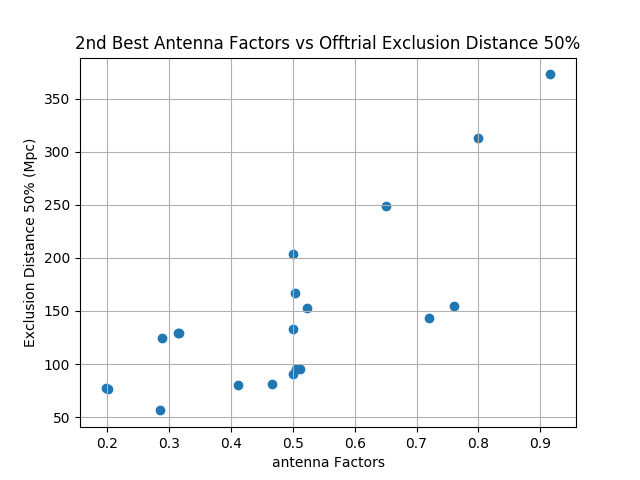
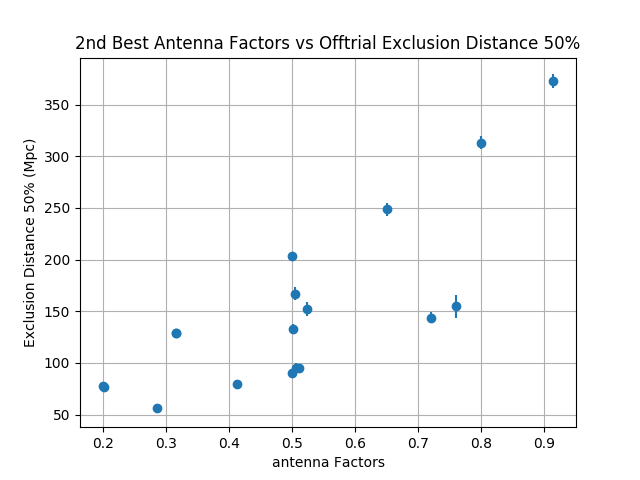
added error bars to antenna plot

diff --git a/injectionPlot.py b/injectionPlot.py
@@ -95,22 +95,22 @@ nsbhPrecessInj = 12500
 
 ################ Plotting #################
 nsns_90_mean = [np.mean(inj100NSNS_90), np.mean(inj90NSNS_90), np.mean(inj80NSNS_90), np.mean(inj70NSNS_90), np.mean(inj60NSNS_90), np.mean(inj50NSNS_90), np.mean(inj40NSNS_90), np.mean(inj30NSNS_90), np.mean(inj20NSNS_90)]
-nsns_90_std = [11.063479404361873, 3.700565758284695, 3.6692927735743956, 13.8125677717, 188.954886992, 51.8242101276, 6.34528534050268, 5.865938840354687, 10.64974986085202]
+nsns_90_std = [11.063479404361873, 3.700565758284695, 3.6692927735743956, 6.65511020741, 10.6678190601, 9.72355054478, 6.34528534050268, 5.865938840354687, 10.64974986085202]
 nsnsNumInj_90 = [1*nsnsInj, 0.9*nsnsInj, 0.8*nsnsInj, 0.7*nsnsInj, 0.6*nsnsInj, 0.5*nsnsInj, 0.4*nsnsInj, 0.3*nsnsInj, 0.2*nsnsInj]
 nsns_50_mean = [np.mean(inj100NSNS_50), np.mean(inj90NSNS_50), np.mean(inj80NSNS_50), np.mean(inj70NSNS_50), np.mean(inj60NSNS_50), np.mean(inj50NSNS_50), np.mean(inj40NSNS_50), np.mean(inj30NSNS_50), np.mean(inj20NSNS_50), np.mean(inj10NSNS_50)]
-nsns_50_std = [6.738043973967401, 4.711676157772397, 5.301722593946216, 54.085612975, 16.0578825548, 700.81749628, 4.829679075135576, 4.176415388028511, 5.89478930396605, 3.341110625402934]
+nsns_50_std = [6.738043973967401, 4.711676157772397, 5.301722593946216, 10.7553460849, 4.97605303394, 33.5169350083, 4.829679075135576, 4.176415388028511, 5.89478930396605, 3.341110625402934]
 nsnsNumInj_50 = [1*nsnsInj, 0.9*nsnsInj, 0.8*nsnsInj, 0.7*nsnsInj, 0.6*nsnsInj, 0.5*nsnsInj, 0.4*nsnsInj, 0.3*nsnsInj, 0.2*nsnsInj, 0.1*nsnsInj]
 
 nsbhAlign_90_mean = [np.mean(inj100NSBHAlign_90), np.mean(inj95NSBHAlign_90), np.mean(inj90NSBHAlign_90), np.mean(inj85NSBHAlign_90), np.mean(inj80NSBHAlign_90), np.mean(inj75NSBHAlign_90), np.mean(inj70NSBHAlign_90), np.mean(inj65NSBHAlign_90), np.mean(inj60NSBHAlign_90), np.mean(inj50NSBHAlign_90)]
-nsbhAlign_90_std = [13.3514417736463, 6.763015800603423, 10.816517042851002, 11.343711654851754, 86.2821624168, 673.533580308, 9.75870059841632, 14.110640287440887, 7.52688093747872, 24.8371996108]
+nsbhAlign_90_std = [13.3514417736463, 6.763015800603423, 10.816517042851002, 11.343711654851754, 10.276219128, 31.0497580382, 9.75870059841632, 14.110640287440887, 7.52688093747872, 9.27830349471]
 nsbhAlign_50_mean = [np.mean(inj100NSBHAlign_50), np.mean(inj95NSBHAlign_50), np.mean(inj90NSBHAlign_50), np.mean(inj85NSBHAlign_50), np.mean(inj80NSBHAlign_50), np.mean(inj75NSBHAlign_50), np.mean(inj70NSBHAlign_50), np.mean(inj65NSBHAlign_50), np.mean(inj60NSBHAlign_50), np.mean(inj50NSBHAlign_50)]
-nsbhAlign_50_std = [7.761793772040417, 12.684935353607644, 9.207894303406931, 10.026442593547355, 22.9786084342, 27.0214930127, 6.56585706910925, 17.679110365465252, 41.704807443853305, 2988.80271884]
+nsbhAlign_50_std = [7.761793772040417, 12.684935353607644, 9.207894303406931, 10.026442593547355, 9.53740464565, 11.5537125999, 6.56585706910925, 17.679110365465252, 41.704807443853305, 99.1745945704]
 nsbhAlignNumInj = [1*nsbhAlignInj, 0.95*nsbhAlignInj, 0.9*nsbhAlignInj, 0.85*nsbhAlignInj, 0.8*nsbhAlignInj, 0.75*nsbhAlignInj, 0.7*nsbhAlignInj, 0.65*nsbhAlignInj, 0.6*nsbhAlignInj, 0.5*nsbhAlignInj]
 
 nsbhPrecess_90_mean = [np.mean(inj100NSBHPrecess_90), np.mean(inj95NSBHPrecess_90), np.mean(inj90NSBHPrecess_90), np.mean(inj85NSBHPrecess_90), np.mean(inj80NSBHPrecess_90), np.mean(inj75NSBHPrecess_90), np.mean(inj70NSBHPrecess_90), np.mean(inj65NSBHPrecess_90), np.mean(inj60NSBHPrecess_90), np.mean(inj50NSBHPrecess_90)]
-nsbhPrecess_90_std = [11.380450987844023, 9.288725373870486, 3.9526855403372867, 6.5316522005021405, 272.395972101, 109.792150649, 6.8773294132981055, 10.118444773002604, 19.30353658535733, 51.5042915048]
+nsbhPrecess_90_std = [11.380450987844023, 9.288725373870486, 3.9526855403372867, 6.5316522005021405, 21.5440835645, 12.0579867157, 6.8773294132981055, 10.118444773002604, 19.30353658535733, 10.8410448196]
 nsbhPrecess_50_mean = [np.mean(inj100NSBHPrecess_50), np.mean(inj95NSBHPrecess_50), np.mean(inj90NSBHPrecess_50), np.mean(inj85NSBHPrecess_50), np.mean(inj80NSBHPrecess_50), np.mean(inj75NSBHPrecess_50), np.mean(inj70NSBHPrecess_50), np.mean(inj65NSBHPrecess_50), np.mean(inj60NSBHPrecess_50), np.mean(inj50NSBHPrecess_50)]
-nsbhPrecess_50_std = [7.079303364544146, 5.317147012680572, 11.604404282417994, 10.925635874610593, 26.887481179, 68.6027877584, 8.399006032298338, 11.222149670766692, 17.063995734044685, 24.8033354871]
+nsbhPrecess_50_std = [7.079303364544146, 5.317147012680572, 11.604404282417994, 10.925635874610593, 11.0296778531, 15.9578893375, 8.399006032298338, 11.222149670766692, 17.063995734044685, 11.84361285]
 nsbhPrecessNumInj = [1*nsbhPrecessInj, 0.95*nsbhPrecessInj, 0.9*nsbhPrecessInj, 0.85*nsbhPrecessInj, 0.8*nsbhPrecessInj, 0.75*nsbhPrecessInj, 0.7*nsbhPrecessInj, 0.65*nsbhPrecessInj, 0.6*nsbhPrecessInj, 0.5*nsbhPrecessInj]
 
 # NSNS Plot
@@ -171,6 +171,8 @@ axNSBHPrecess.set_xlabel('Number of Injections', fontsize=20)
 axNSBHPrecess.set_ylabel('Exclusion Distance (Mpc)', fontsize=20)
 axNSBHPrecess.set_title('Exclusion Distance vs. Injections for NSBH Precessing', fontsize=30)
 axNSBHPrecess.legend(loc='lower right', prop={'size':20})
+axNSBHPrecess.set_xlim(6000,13000)
+axNSBHPrecess.set_ylim(0,250)
 
 figNSBHPrecess.savefig(fname='InjVsExDist_NSBHPrecess.png')
 

diff --git a/antennaVsExclusion.py b/antennaVsExclusion.py
@@ -106,36 +106,38 @@ grb190515190Ex50 = [80.0835722045, 80.1329221853, 80.0196807774, 80.1781682271, 
 grb190515190Ex50Ave = np.mean(grb190515190Ex50)
 
 # Lists of information with all GRBs
-name = ["GRB190407788", "GRB190420981", "GRB190427A", "GRB190504678", "GRB190505051", "GRB190510430", "GRB190525032", "GRB190531568", "GRB190601325", "GRB190610A", "GRB190610834", "GRB190923617", "GRB190830264", "GRB190810675", "GRB190804058", "GRB190712018", "GRB190630257", "GRB190627A", "GRB190606080", "GRB190515190"]
-antenna1Best = [0.919, 0.772, 0.983, 0.946, 0.525, 0.582, 0.813, 0.726, 0.690, 0.302, 0.880, 0.617, 0.953, 0.645, 0.800, 0.971, 0.448, 0.452, 0.613, 0.488]
-antenna2Best = [0.506, 0.720, 0.504, 0.315, 0.500, 0.500, 0.651, 0.467, 0.523, 0.202, 0.511, 0.289, 0.915, 0.501, 0.760, 0.800, 0.285, 0.316, 0.199, 0.412]
-exclu90Ave = [grb190407788Ex90Ave, grb190420981Ex90Ave, grb190427AEx90Ave, grb190504678Ex90Ave, grb190505051Ex90Ave, grb190510430Ex90Ave, grb190525032Ex90Ave, grb190531568Ex90Ave, grb190601325Ex90Ave, grb190610AEx90Ave, grb190610834Ex90Ave, grb190923617Ex90Ave, grb190830264Ex90Ave, grb190810675Ex90Ave, grb190804058Ex90Ave, grb190712018Ex90Ave, grb190630257Ex90Ave, grb190627AEx90Ave, grb190606080Ex90Ave, grb190515190Ex90Ave]
-exclu50Ave = [grb190407788Ex50Ave, grb190420981Ex50Ave, grb190427AEx50Ave, grb190504678Ex50Ave, grb190505051Ex50Ave, grb190510430Ex50Ave, grb190525032Ex50Ave, grb190531568Ex50Ave, grb190601325Ex90Ave, grb190610AEx50Ave, grb190610834Ex50Ave, grb190923617Ex50Ave, grb190830264Ex50Ave, grb190810675Ex50Ave, grb190804058Ex50Ave, grb190712018Ex50Ave, grb190630257Ex50Ave, grb190627AEx50Ave, grb190606080Ex50Ave, grb190515190Ex50Ave]
+name = 		 ["GRB190407788",      	"GRB190420981", "GRB190427A", "GRB190504678", "GRB190505051", "GRB190510430", "GRB190525032", "GRB190601325", "GRB190610A", "GRB190610834", "GRB190830264", "GRB190810675", "GRB190804058", "GRB190712018", "GRB190630257", "GRB190627A", "GRB190606080", "GRB190515190"]
+antenna1Best = [0.919, 0.772, 0.983, 0.946, 0.525, 0.582, 0.813, 0.690, 0.302, 0.880, 0.953, 0.645, 0.800, 0.971, 0.448, 0.452, 0.613, 0.488]
+antenna2Best = [0.506, 0.720, 0.504, 0.315, 0.500, 0.500, 0.651, 0.523, 0.202, 0.511, 0.915, 0.501, 0.760, 0.800, 0.285, 0.316, 0.199, 0.412]
+exclu90Ave = [grb190407788Ex90Ave, 	grb190420981Ex90Ave, grb190427AEx90Ave, grb190504678Ex90Ave, grb190505051Ex90Ave, grb190510430Ex90Ave, grb190525032Ex90Ave, grb190601325Ex90Ave, grb190610AEx90Ave, grb190610834Ex90Ave, grb190830264Ex90Ave, grb190810675Ex90Ave, grb190804058Ex90Ave, grb190712018Ex90Ave, grb190630257Ex90Ave, grb190627AEx90Ave, grb190606080Ex90Ave, grb190515190Ex90Ave]
+exclu90err = [4.905496342543896,    10.1477956793,		 7.72280287013,		4.044501064003285,   2.66183424, 		  15.137899695517495,  4.800286616443967,	7.860245624562807,	 2.88789821644,	 	5.70422303245,		 15.22435768238921,	  3.7141618209116625,  24.726406802, 		5.78848165687765,	 3.3543675352,		  5.7933757022362995,2.2537173332640363,  4.19587506617	   ]
+exclu50Ave = [grb190407788Ex50Ave, 	grb190420981Ex50Ave, grb190427AEx50Ave, grb190504678Ex50Ave, grb190505051Ex50Ave, grb190510430Ex50Ave, grb190525032Ex50Ave, grb190601325Ex90Ave, grb190610AEx50Ave, grb190610834Ex50Ave, grb190830264Ex50Ave, grb190810675Ex50Ave, grb190804058Ex50Ave, grb190712018Ex50Ave, grb190630257Ex50Ave, grb190627AEx50Ave, grb190606080Ex50Ave, grb190515190Ex50Ave]
+exclu50err = [4.937500505876478,    5.04894308235,		 6.30382394612,		2.9702652116037744,  3.87321224862, 	  3.8807160072599536,  6.373142326368604,   6.836912226751878,	 2.54026431952,	 	3.66778590264,		 6.405721498179706,	  4.688381167905543,   11.4561972396,		6.170499188231567,	 2.32210715364,		  2.1957950900444163,3.4492449785291357,  3.06047056018	   ]
 
 # Plots
 fig90, ax90 = plt.subplots()
-ax90.scatter(antenna1Best, exclu90Ave)
+ax90.errorbar(antenna1Best, exclu90Ave, yerr=exclu90err, fmt='o')
 ax90.set(xlabel='antenna Factors', ylabel='Exclusion Distance 90% (Mpc)',
        title='1st Best Antenna Factors vs Offtrial Exclusion Distance 90%')
 ax90.grid()
 fig90.savefig(fname='antFact1vsExDist90.png')
 
 fig90_2, ax90_2 = plt.subplots()
-ax90_2.scatter(antenna2Best, exclu90Ave)
+ax90_2.errorbar(antenna2Best, exclu90Ave, yerr=exclu50err, fmt='o')
 ax90_2.set(xlabel='antenna Factors', ylabel='Exclusion Distance 90% (Mpc)',
        title='2nd Best Antenna Factors vs Offtrial Exclusion Distance 90%')
 ax90_2.grid()
 fig90_2.savefig(fname='antFact2vsExDist90.png')
 
 fig50, ax50 = plt.subplots()
-ax50.scatter(antenna1Best, exclu50Ave)
+ax50.errorbar(antenna1Best, exclu50Ave, yerr=exclu90err, fmt='o')
 ax50.set(xlabel='antenna Factors', ylabel='Exclusion Distance 50% (Mpc)',
        title='1st Best Antenna Factors vs Offtrial Exclusion Distance 50%')
 ax50.grid()
 fig50.savefig(fname='antFact1vsExDist50.png')
 
 fig50_2, ax50_2 = plt.subplots()
-ax50_2.scatter(antenna2Best, exclu50Ave)
+ax50_2.errorbar(antenna2Best, exclu50Ave, yerr=exclu50err, fmt='o')
 ax50_2.set(xlabel='antenna Factors', ylabel='Exclusion Distance 50% (Mpc)',
        title='2nd Best Antenna Factors vs Offtrial Exclusion Distance 50%')
 ax50_2.grid()

diff --git a/exDistErrors.py b/exDistErrors.py
@@ -46,8 +46,8 @@ def error(pData, data, p):
 	d = float(data[0])
 	preE = float(pData[1])
 	e = float(data[1])
-	sigPreE = (float(pData[2])+float(pData[3]))/2
-	sigE = (float(data[2])+float(data[3]))/2
+	sigPreE = (float(pData[2])+float(pData[3]))/2.
+	sigE = (float(data[2])+float(data[3]))/2.
 
 	partialE = ((preD-d)*(100*preE-p))/(100*(preE-e)**2)
 	partialPreE = ((d-preD)*(e-p/100.))/(preE-e)**2
